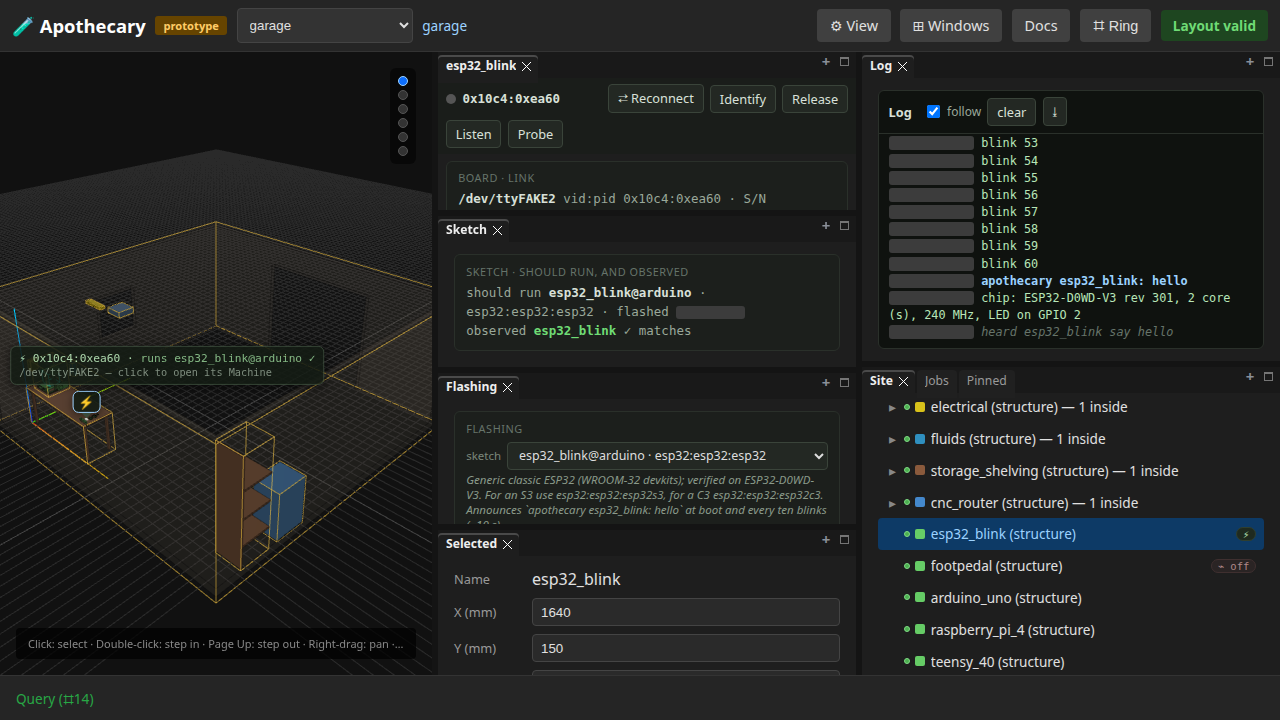
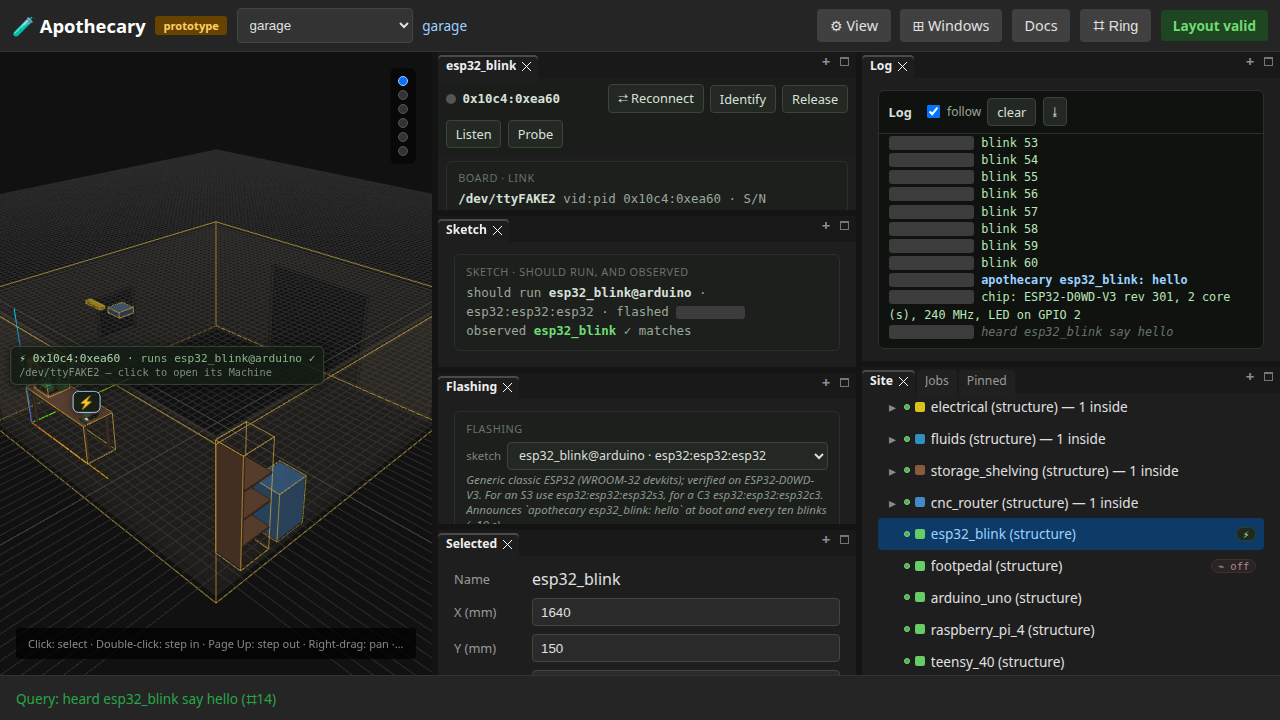
The onboarding test asks for Slice on the footpedal's ring, and page 05's pictures show Query's hello
`apothecary test all` on c50b4a1 failed one test, of 310 browser tests:
test_onboarding asked for Slice as the footpedal's last cell, where Flash
sketch now follows it once its bindings are in. It asks for Slice among
the cells, as test_the_demo does; its file passes (9).

The same run took page 05's pictures again. Two show a status line this
branch changes: Device › Query says the hello it heard ("Query: heard
esp32_blink say hello"), and the Machine's own listen after a flash says
it where "Flash (⌗12)" stood. The six others it rewrote, by a few pixels
with nothing on their pages changed, are not committed.

Tools: Claude Code

Changed region(s): [[0.6875, 0.3361, 0.9688, 0.4278], [0.0312, 0.9472, 0.2188, 0.9778], [0.75, 0.2139, 0.8125, 0.275]]

diff --git a/tests/e2e/test_onboarding.py b/tests/e2e/test_onboarding.py
@@ -120,7 +120,7 @@ def test_a_printers_pin_pins_its_mainboard_where_device_machine_and_slice_find_i
 
     # Slice, on a part standing in the garage, slices for it.
     _ring_on(page, "footpedal")
-    assert _labels(page)[-1] == "Slice", _labels(page)
+    assert "Slice" in _labels(page), _labels(page)  # Flash sketch may follow it
     _press(page, "Slice")
     _said(page, "slicing footpedal for printer_1")
     expect(machine.locator("#print-slice-said")).to_contain_text(
